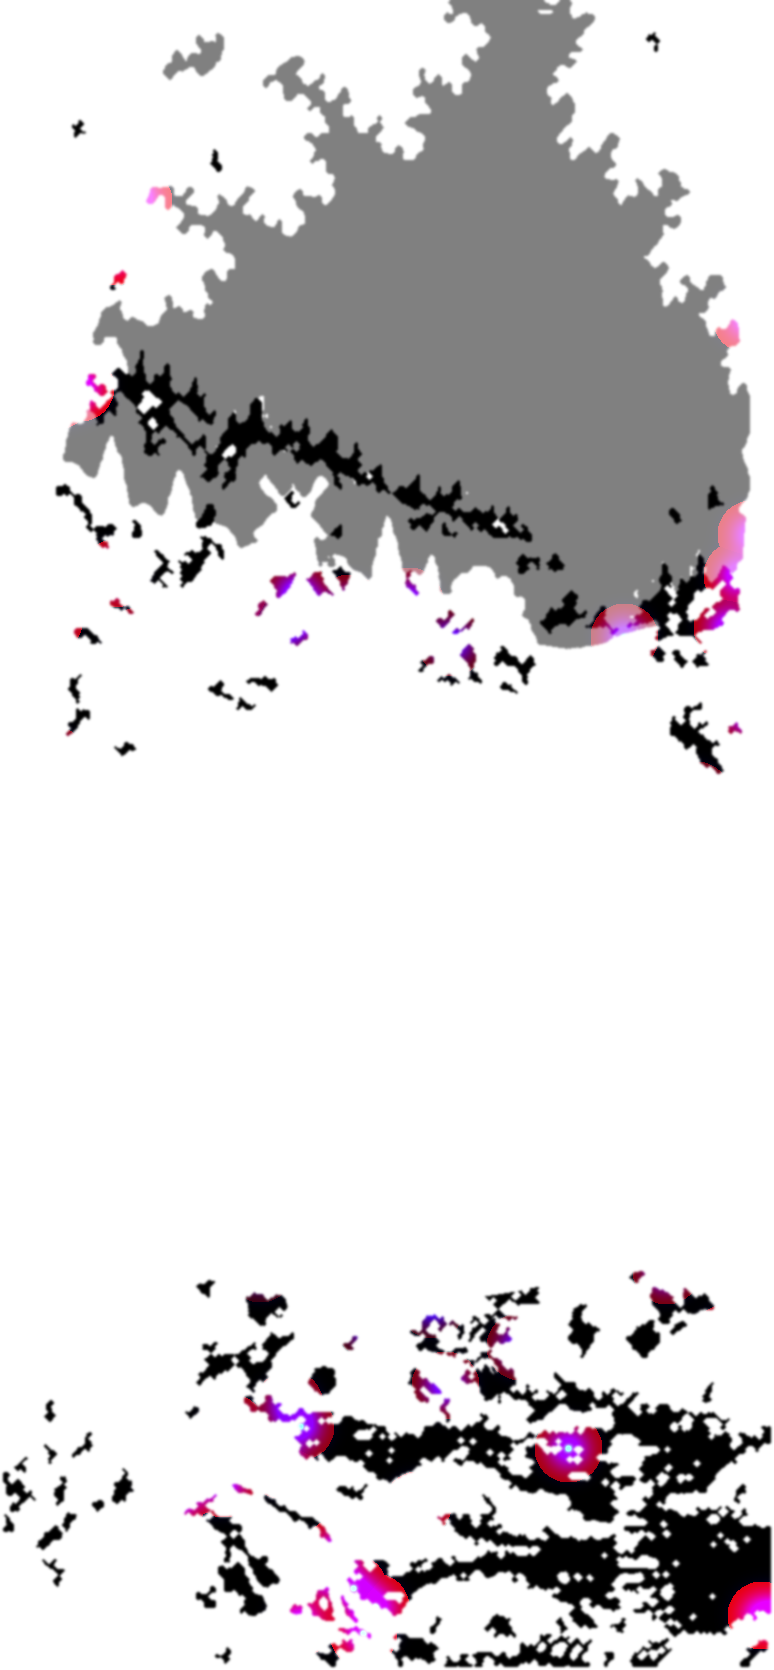
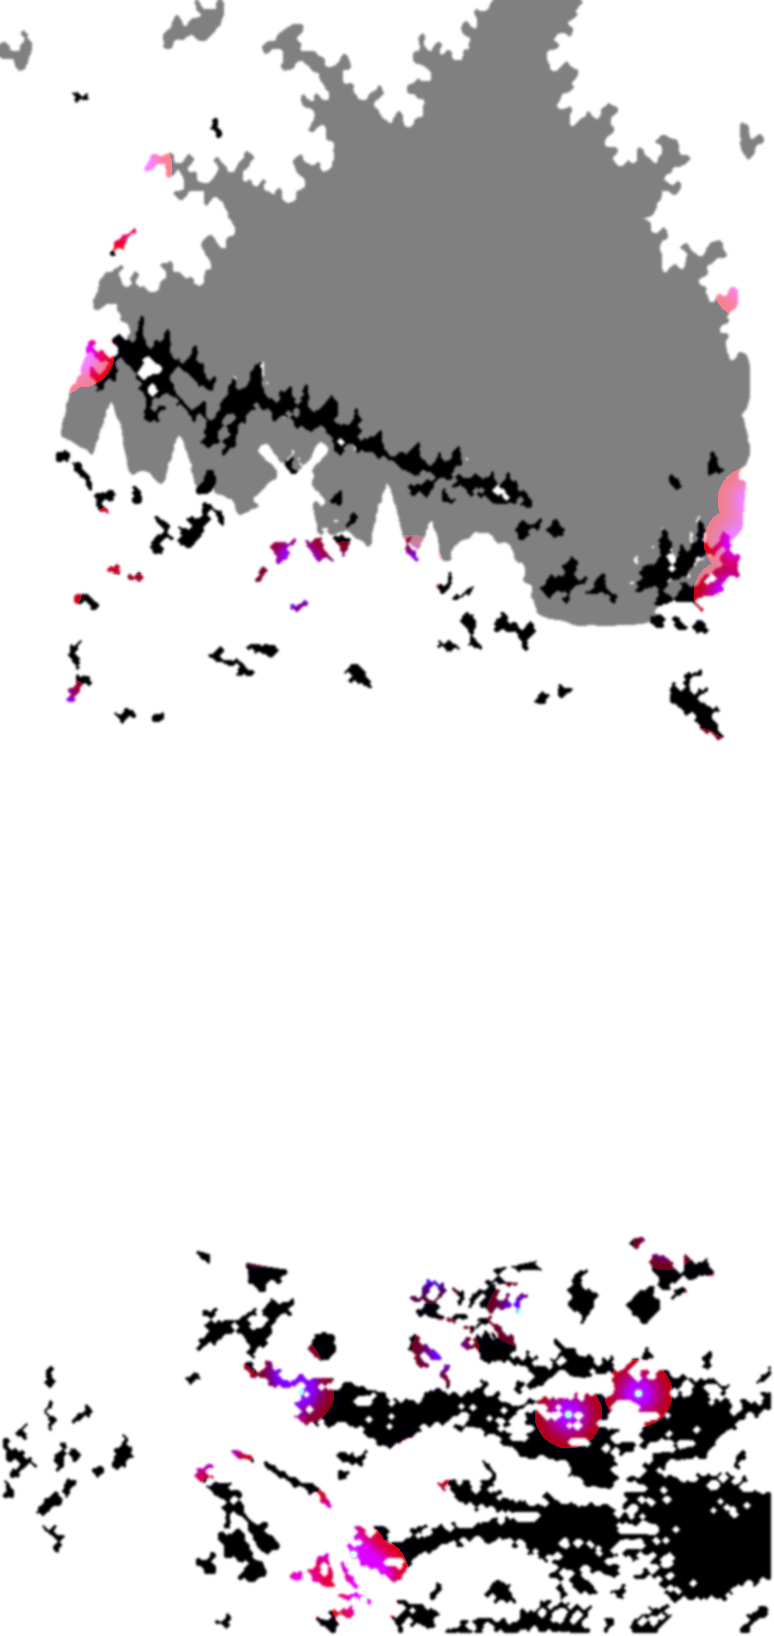
The Flame's feet exactly on each circle's centre: no bob, a calibrated foot offset, the Sanctuary redrawn with a full-size circle, Highlands and Wilds re-measured

diff --git a/prototypes/p2-spikes/SpikeLab/S3View.swift b/prototypes/p2-spikes/SpikeLab/S3View.swift
@@ -61,6 +61,7 @@ final class RealmScene {
     @ObservationIgnored private var time: Float = 0
     @ObservationIgnored private let noise = SmoothNoise(seed: 31)
     @ObservationIgnored private var heroFeet = SIMD3<Float>(0, 0, 0)
+    static let feetLift: Float = 0.016
     @ObservationIgnored private var heroScale: Float = 0.42
     @ObservationIgnored private var flareOrder: Float = -1
     @ObservationIgnored private var flareAge: Float = 10
@@ -267,14 +268,15 @@ final class RealmScene {
         }
 
         // The Flame on the stone circle.
-        let circle = point(hx(circleUV.x), circleUV.y, nearer: 0.012)
+        // The feet land exactly on the centre of the circle (Mathis): the sprite foot offset, calibrated on screen.
+        let circle = point(hx(circleUV.x), circleUV.y + (PixelMode.world ? Self.feetLift : 0), nearer: 0.012)
         try await hero.build()
         let k = -circle.z / Self.distance
         heroScale = (PixelMode.world ? 0.07 : 0.105) * h * k / 0.27                            // the Spark's size, as in the Sanctuary
         hero.leanPivot.scale = .init(repeating: heroScale)
         // Standing right in the middle of its circle (Mathis): feet on the centre stone, only a breath of hover.
         hero.leanPivot.position = circle + SIMD3(0, (PixelMode.world ? 0.0 : 0.09) * heroScale, 0)
-        if PixelMode.world { hero.hoverHeight = 0.012 }
+        if PixelMode.world { hero.hoverHeight = 0; hero.hoverBob = 0 }   // feet exactly on the centre
         hero.stationary = true
         root.addChild(hero.leanPivot)
         heroFeet = circle

diff --git a/prototypes/p2-spikes/SpikeLab/Alive/HeroRig.swift b/prototypes/p2-spikes/SpikeLab/Alive/HeroRig.swift
@@ -49,6 +49,8 @@ final class HeroRig: FlameRig {
     private var lastMatKey = SIMD4<Float>(-9, -9, -9, -9), lastMatHour: Float = -9, lastTintAngle: Float = -99, lastTintStrength: Float = -1
     /// How high a spirit floats above its spot (rig units).
     var hoverHeight: Float = 0.06
+    /// How much it bobs up and down (0: it stands still on the ground, breathing in place).
+    var hoverBob: Float = 1
     /// Your ember's color on the Spark's fire (SparkTint): hue rotation (radians) and saturation.
     var tint: (angle: Float, saturation: Float, strength: Float) = (0, 1, 0)
     /// A stationary Flame stays exactly where it sits (no drifting, no leaning toward fingers or moths): only in-place life.
@@ -161,7 +163,7 @@ final class HeroRig: FlameRig {
         body.step(dt: dt)
         walkPivot.transform.translation = [stationary ? 0 : body.x, 0, 0]
         // A spirit floats: a slow bob (two rhythms so it never visibly loops) above the ground.
-        let hover: Float = spirit ? hoverHeight + 0.01 * sin(hoverTime * 1.5) + 0.004 * sin(hoverTime * 0.63 + 1) : 0
+        let hover: Float = spirit ? hoverHeight + hoverBob * (0.01 * sin(hoverTime * 1.5) + 0.004 * sin(hoverTime * 0.63 + 1)) : 0
         bodyPivot.transform = Transform(scale: [body.scaleX, body.scaleY, 1],
                                         rotation: simd_quatf(angle: body.roll, axis: [0, 0, 1]),
                                         translation: [0, Self.feetY + body.y + hover, 0])

diff --git a/prototypes/p2-spikes/SpikeLab/S2View.swift b/prototypes/p2-spikes/SpikeLab/S2View.swift
@@ -259,13 +259,13 @@ final class SanctuaryScene {
         let k = d / Self.distance
         // Exactly as in the root frame: the cutout is 426 of the painting's 1846 px tall (its mesh is 0.27 tall).
         let scale = (PixelMode.world ? 0.07 : 0.105) * h * k / 0.27   // the Spark: small, a newborn spirit (smaller in the pixel Sanctuary)
-        let feet = SIMD3<Float>((hx(circle.x) - 0.5) * w * k, (circle.y - 0.5) * h * k, -d)
+        let feet = SIMD3<Float>((hx(circle.x) - 0.5) * w * k, (circle.y + (PixelMode.world ? RealmScene.feetLift : 0) - 0.5) * h * k, -d)   // feet on the centre
         hero.leanPivot.scale = .init(repeating: scale)
         hero.leanPivot.position = feet + SIMD3(0, (PixelMode.world ? 0.0 : 0.09) * scale, 0)   // (pixel: in the middle of the circle)
         hero.stationary = true
         // Floating well above the runes (Mathis: like in the Grove). Seen from above, a floating thing shows higher
         // on screen than its light on the ground: its glow pool stays on the circle's center stone.
-        hero.hoverHeight = PixelMode.world ? 0.012 : 0.045     // pixel: right in the middle of the circle (Mathis, 2026-10-09)
+        hero.hoverHeight = PixelMode.world ? 0 : 0.045; if PixelMode.world { hero.hoverBob = 0 }     // pixel: right in the middle of the circle (Mathis, 2026-10-09)
         root.addChild(hero.leanPivot)
         heroFeet = feet; heroWorldScale = scale
 

diff --git a/prototypes/p2-spikes/tools/build_pixel_world.py b/prototypes/p2-spikes/tools/build_pixel_world.py
@@ -29,7 +29,7 @@ def clean(img, px, colors):
 # ---- The world ----
 src = Image.open(f"{D}/px-sanctuary.png").convert("RGB")
 # Decision 156: crop so the circle's centre (measured 0.518, 0.49) lands at (0.5, 0.40), as in every world.
-CU, CV, T = 0.518, 0.49, 0.40
+CU, CV, T = 0.5, 0.443, 0.40   # (the v2 Sanctuary, bigger circle)
 sw, sh = src.size
 src = src.crop((int((2 * CU - 1) * sw), 0, sw, int(sh - (CV - T) / (1 - T) * sh)))
 art = clean(src, SRC_PX, 72)
